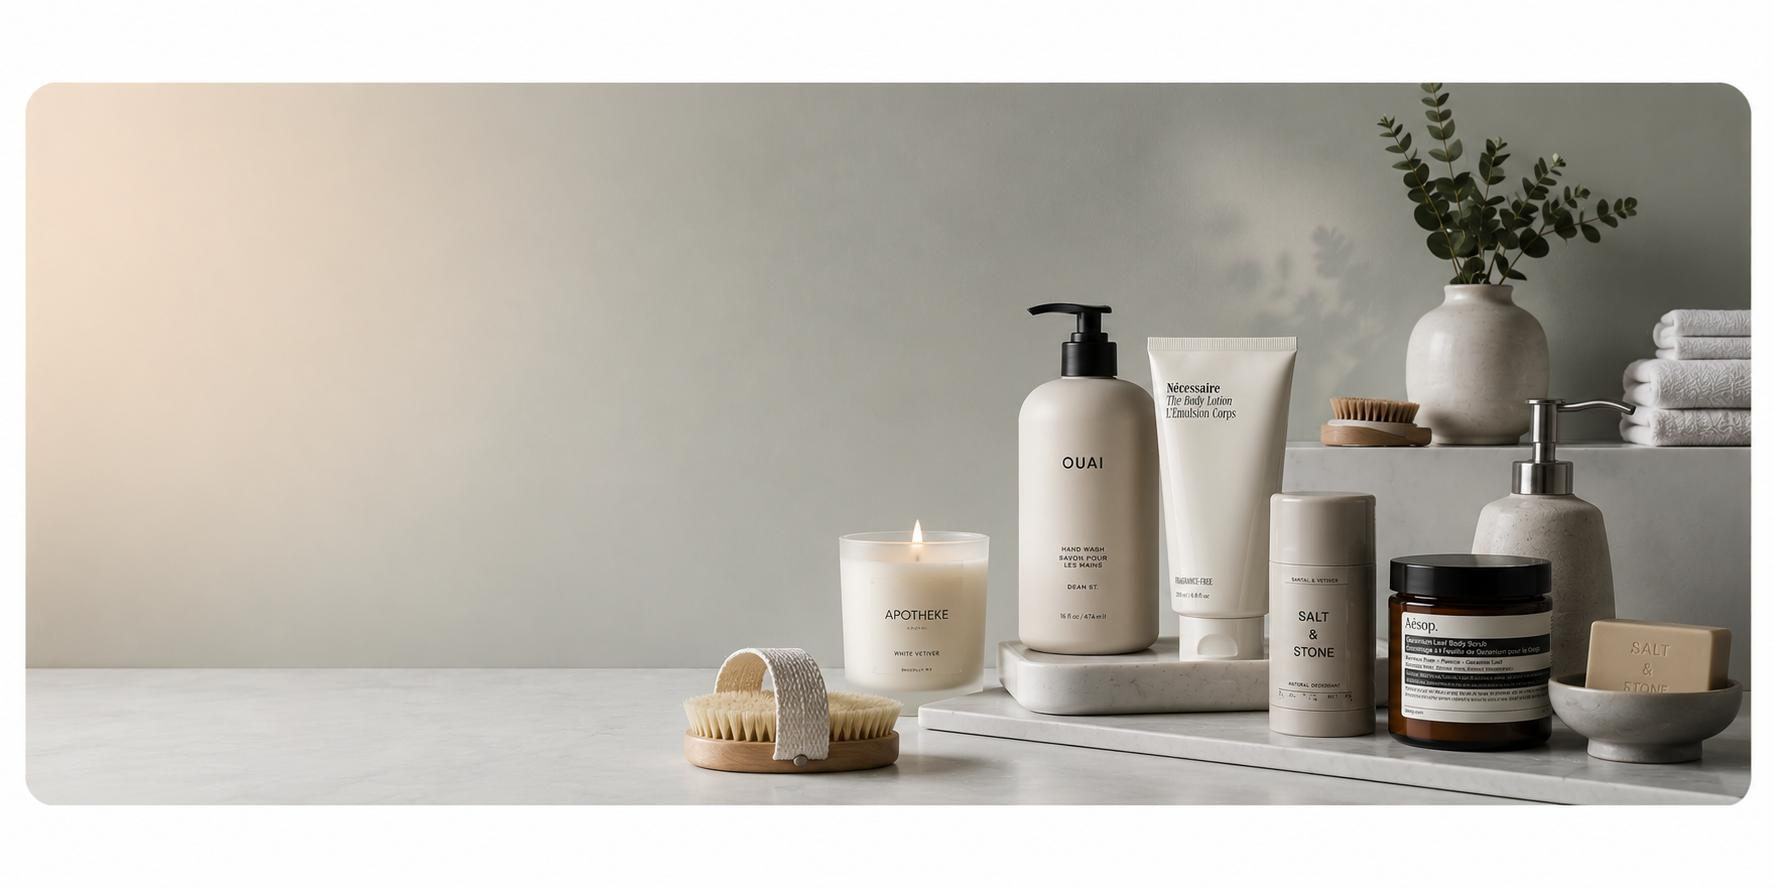
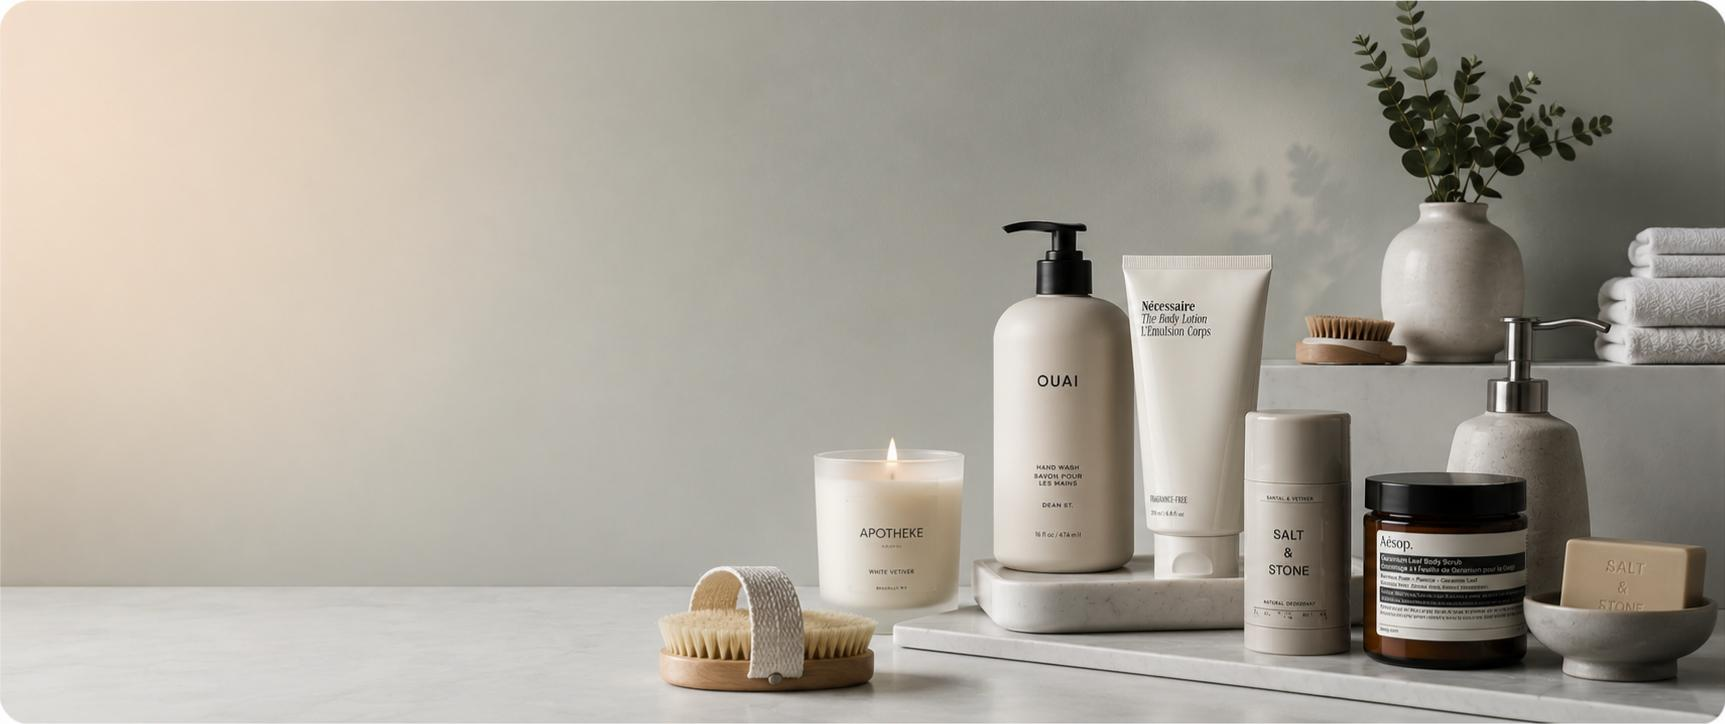
Bath: replace image, remove dark overlay, stretch horizontal

diff --git a/assets/css/components.css b/assets/css/components.css
@@ -1,4 +1,4 @@
 *{box-sizing:border-box}html{scroll-behavior:smooth}body{margin:0;font-family:var(--fd-font);background:#f8f7f2;color:var(--fd-text)}a{color:inherit}img{max-width:100%;display:block}
 .container{max-width:var(--fd-max);margin:0 auto;padding:0 32px}.site-header{position:sticky;top:0;z-index:40;background:rgba(255,255,255,.92);backdrop-filter:saturate(1.2) blur(18px);border-bottom:1px solid rgba(17,17,20,.05)}.header-inner{height:96px;display:grid;grid-template-columns:1fr auto 1fr;align-items:center;gap:24px}.brand{display:flex;align-items:center;gap:14px;text-decoration:none;color:var(--fd-text);font-weight:800;letter-spacing:.14em;text-transform:uppercase}.brand-mark{width:30px;height:30px;border-radius:10px;background:linear-gradient(135deg,var(--fd-green),#00d8a8);box-shadow:0 10px 24px rgba(32,216,88,.24);flex-shrink:0}.brand-word{display:flex;gap:.18em;align-items:baseline}.brand-line{font-size:16px;line-height:1;letter-spacing:.2em}.brand-accent{color:var(--fd-green-dark)}.main-nav{display:flex;justify-content:center;align-items:center;gap:34px}.main-nav a{color:#36363b;text-decoration:none;font-weight:650;font-size:15px}.main-nav a:hover{color:var(--fd-green-dark)}.header-actions{display:flex;justify-content:flex-end}.icon-btn{width:48px;height:48px;border:1px solid rgba(17,17,20,.08);border-radius:999px;background:#fff;display:grid;place-items:center;box-shadow:0 8px 18px rgba(17,17,20,.04)}.mobile-toggle{display:none}.btn{display:inline-flex;align-items:center;justify-content:center;min-height:52px;padding:0 24px;border-radius:999px;font-weight:750;text-decoration:none;transition:transform .25s ease,box-shadow .25s ease,background .25s ease}.btn:hover{transform:translateY(-2px)}.btn-dark{background:var(--fd-black);color:#fff;box-shadow:0 16px 40px rgba(17,17,20,.18)}.btn-light{background:#fff;color:var(--fd-text);border:1px solid rgba(17,17,20,.08);box-shadow:0 10px 24px rgba(17,17,20,.04)}.eyebrow{font-size:13px;font-weight:800;letter-spacing:.22em;text-transform:uppercase;color:var(--fd-green-dark);margin-bottom:16px}.section-title{font-size:clamp(32px,4vw,44px);line-height:1;letter-spacing:-.03em;margin:0 0 12px}.section-intro{max-width:640px;margin-bottom:38px}.section-intro p{font-size:18px;line-height:1.7;color:var(--fd-muted);margin:0}.premium-card{display:block;text-decoration:none;color:inherit;background:#fff;border:1px solid rgba(17,17,20,.06);border-radius:24px;box-shadow:0 20px 60px rgba(17,17,20,.06);overflow:hidden;transition:transform .25s ease,box-shadow .25s ease}.premium-card:hover{transform:translateY(-6px);box-shadow:0 30px 80px rgba(17,17,20,.1)}.footer{padding:48px 0 64px;border-top:1px solid rgba(17,17,20,.08);margin-top:72px;background:#fff}.footer-inner{display:flex;align-items:center;justify-content:space-between;gap:20px;color:var(--fd-muted);font-size:15px}.footer a{color:var(--fd-text);text-decoration:none}.product-grid{display:grid;grid-template-columns:repeat(4,minmax(0,1fr));gap:20px}.product-card-link{display:block;color:inherit;text-decoration:none}.product-empty,.search-result-empty{display:grid;gap:12px;align-items:center;padding:24px 24px 28px;border:1px solid rgba(17,17,20,.08);border-radius:24px;background:linear-gradient(180deg,#fff 0%,#fcfbf7 100%);color:var(--fd-muted);box-shadow:0 18px 40px rgba(17,17,20,.04)}.product-empty h3{margin:0;color:var(--fd-text);font-size:20px}.product-empty p{margin:0;max-width:540px;line-height:1.7}.product-empty-illustration{display:flex;justify-content:flex-start}.product-empty-illustration svg{width:min(180px,100%);height:auto}.site-search{position:relative;display:flex;align-items:center}.site-search input,.product-filter input,.product-filter select{width:100%;min-height:44px;padding:0 14px;border:1px solid rgba(17,17,20,.12);border-radius:999px;background:#fff;color:var(--fd-text)}.site-search .search-results{display:none;position:absolute;top:calc(100% + 10px);right:0;min-width:260px;max-width:320px;padding:10px;border:1px solid rgba(17,17,20,.08);border-radius:16px;background:#fff;box-shadow:0 16px 40px rgba(17,17,20,.08)}.site-search .search-results.is-visible{display:grid;gap:8px}.search-result-item{display:flex;flex-direction:column;gap:2px;padding:8px 10px;border-radius:10px;color:var(--fd-text);text-decoration:none}.search-result-item:hover{background:#f6f3ea}.product-toolbar{display:flex;flex-wrap:wrap;gap:12px;align-items:flex-end;justify-content:space-between;margin:0 0 20px}.product-filter{display:flex;flex:1;min-width:220px;flex-direction:column;gap:6px;font-size:13px;font-weight:700;letter-spacing:.08em;text-transform:uppercase;color:var(--fd-muted)}
 @media(max-width:900px){.container{padding:0 24px}.header-inner{grid-template-columns:1fr auto;height:84px}.main-nav{display:none}.brand-word{display:none}.brand{gap:12px}.product-grid{grid-template-columns:repeat(2,minmax(0,1fr))}.site-search{display:none}}@media(max-width:560px){.header-actions{position:absolute;right:16px}.header-inner{justify-content:center}.footer-inner{flex-direction:column;align-items:flex-start}.product-grid{grid-template-columns:1fr}.product-toolbar{flex-direction:column;align-items:stretch}.product-filter{min-width:0}}
-.hero--image{position:relative;background-size:cover;background-position:center;background-repeat:no-repeat;min-height:520px;display:flex;align-items:center;color:#fff}.hero--image::before{content:"";position:absolute;inset:0;background:linear-gradient(180deg,rgba(0,0,0,.35) 0%,rgba(0,0,0,.55) 100%);z-index:1}.hero-overlay{display:none}.hero--image .hero-inner{position:relative;z-index:2}.hero--image .hero-copy{max-width:680px}.eyebrow--light{color:#fff;opacity:.85}.hero-title--light{font-size:clamp(48px,6vw,84px);line-height:1;letter-spacing:-.04em;font-weight:900;color:#fff;margin:0 0 20px;text-shadow:0 2px 24px rgba(0,0,0,.25)}.hero-desc--light{font-size:18px;line-height:1.7;color:rgba(255,255,255,.92);max-width:620px;margin:0;text-shadow:0 2px 12px rgba(0,0,0,.25)}.hero-stack{display:flex;flex-direction:column;align-items:flex-start;gap:0;font-size:clamp(40px,6vw,88px);line-height:.95;letter-spacing:-.05em;font-weight:900;color:#fff;margin:0 0 24px;text-transform:uppercase;text-shadow:0 4px 32px rgba(0,0,0,.3)}.hero-stack span{display:block}.hero--image .container{max-width:none;padding:0 48px;margin:0}.hero--image .hero-inner{max-width:none}@media(max-width:768px){.hero--image{min-height:420px}.hero-title--light{font-size:clamp(40px,8vw,60px)}.hero-desc--light{font-size:16px}.hero-stack{font-size:clamp(36px,10vw,64px);line-height:1}.hero--image .container{padding:0 24px}}
+.hero--image{position:relative;background-size:100% 100%;background-position:center;background-repeat:no-repeat;min-height:520px;display:flex;align-items:center;color:#fff}.hero-overlay{display:none}.hero--image .hero-inner{position:relative;z-index:2}.hero--image .hero-copy{max-width:680px}.eyebrow--light{color:#fff;opacity:.85}.hero-title--light{font-size:clamp(48px,6vw,84px);line-height:1;letter-spacing:-.04em;font-weight:900;color:#fff;margin:0 0 20px;text-shadow:0 2px 24px rgba(0,0,0,.25)}.hero-desc--light{font-size:18px;line-height:1.7;color:rgba(255,255,255,.92);max-width:620px;margin:0;text-shadow:0 2px 12px rgba(0,0,0,.25)}.hero-stack{display:flex;flex-direction:column;align-items:flex-start;gap:0;font-size:clamp(40px,6vw,88px);line-height:.95;letter-spacing:-.05em;font-weight:900;color:#fff;margin:0 0 24px;text-transform:uppercase;text-shadow:0 4px 32px rgba(0,0,0,.3)}.hero-stack span{display:block}.hero--image .container{max-width:none;padding:0 48px;margin:0}.hero--image .hero-inner{max-width:none}@media(max-width:768px){.hero--image{min-height:420px}.hero-title--light{font-size:clamp(40px,8vw,60px)}.hero-desc--light{font-size:16px}.hero-stack{font-size:clamp(36px,10vw,64px);line-height:1}.hero--image .container{padding:0 24px}}